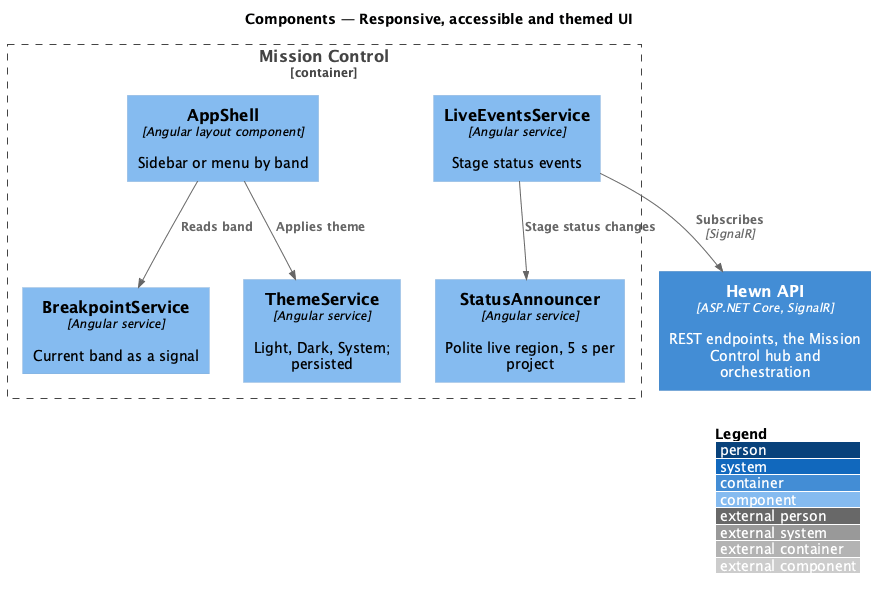
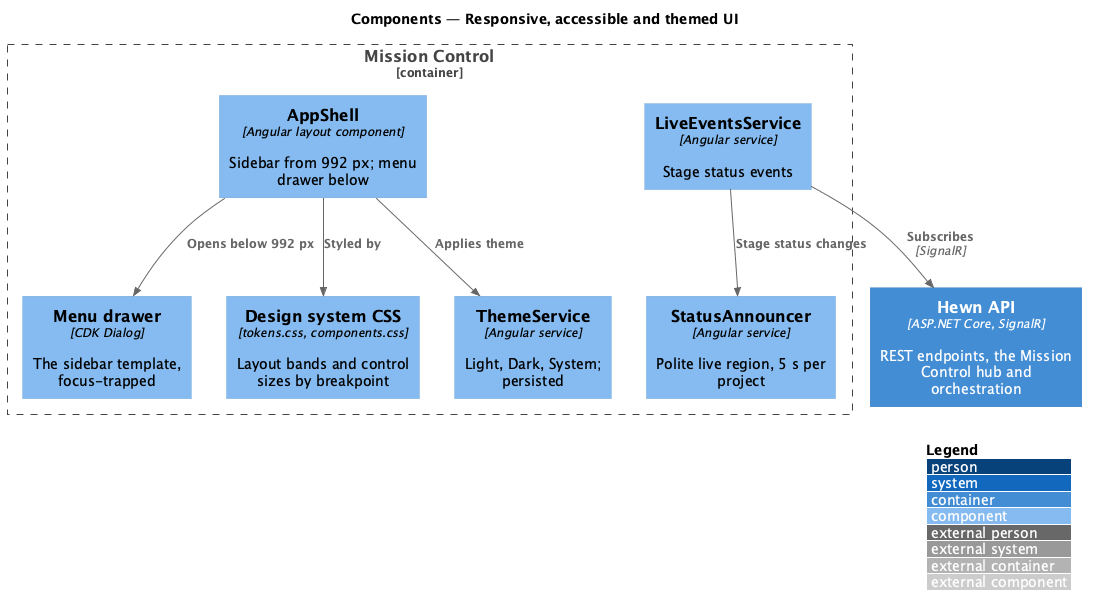
Settle touch target sizes for mobile layouts
L2-046 AC4 asked for 44 px targets at every width while the design
system draws 32 and 40 px controls from 992 px. AC4 now asks for 44 px
below 992 px and 24 px from 992 px (ADR 0034). The responsive design
drops BreakpointService: layout bands stay in CSS, and the shell opens
its sidebar template as a menu drawer below 992 px.

Traces to: L2-046

Claude-Session: https://claude.ai/code/session_01LjZiMqftK4BJirXGfFyqYe

diff --git a/docs/detailed-designs/mission-control/responsive-accessible-ui/README.md b/docs/detailed-designs/mission-control/responsive-accessible-ui/README.md
@@ -4,7 +4,7 @@
 
 Every Mission Control page shares one shell and one set of rules for layout, accessibility, theme and performance. This design describes that baseline rather than one screen.
 
-Layout follows three bands. Below 576 px (XS) content is one column, navigation collapses into a menu, and the pipeline is a vertical list. From 576 px (S) to 991 px (M) the project page shows the pipeline as a horizontal, scrollable stepper above the stage detail. From 992 px (L and XL) navigation is a fixed sidebar and the pipeline sits beside the stage detail. From 320 to 2560 px there is no horizontal page scroll, and touch targets are at least 44×44 px.
+Layout follows three bands. Below 576 px (XS) content is one column, navigation collapses into a menu, and the pipeline is a vertical list. From 576 px (S) to 991 px (M) the project page shows the pipeline as a horizontal, scrollable stepper above the stage detail. From 992 px (L and XL) navigation is a fixed sidebar and the pipeline sits beside the stage detail. From 320 to 2560 px there is no horizontal page scroll. Touch targets are at least 44×44 px below 992 px, where a finger is the likely pointer, and at least 24×24 px from 992 px.
 
 Every page in every state passes axe-core with no serious or critical violations, works by keyboard alone with a visible focus indicator and no traps, announces stage status changes through a polite live region at most once every 5 seconds per project, and disables animation when the user prefers reduced motion. With no saved choice the theme follows the operating system; a choice of Light, Dark or System is kept across reloads, and text contrast is at least 4.5:1 in both themes.
 
@@ -18,8 +18,8 @@ Terms used in this design:
 
 The slice is a set of shared Angular building blocks plus the tests that hold every page to them.
 
-- **`AppShell`** — layout component: fixed sidebar at 992 px and up, top bar with menu button below; the menu opens `MobileNavDrawer`, a focus-trapped dialog that releases focus on close.
-- **`BreakpointService`** — exposes the current band (XS, S–M, L–XL) as a signal from `matchMedia` queries on the token breakpoints.
+- **`AppShell`** — layout component. The sidebar's content is one template, shown in the fixed sidebar from 992 px. Below 992 px the top bar shows Open menu, the wordmark and the connection dot, and Open menu shows the same template in a menu drawer, a CDK Dialog labelled "Menu". Focus starts on Close menu, stays in the drawer, and returns to Open menu. The drawer closes on Escape, on Close menu, on a tap beside it, on navigating, and when the window widens to 992 px.
+- **Layout bands** — CSS media queries in the design system on the token breakpoints (36, 48, 62 and 75 rem) set the columns, the pipeline (a list, then a stepper, then a column beside the detail) and control sizes. The shell's one `matchMedia('(min-width: 62rem)')` closes the drawer; nothing else needs to know the band.
 - **`StatusAnnouncer`** — single polite live region. It queues stage status messages per project and emits at most one per project every 5 seconds.
 - **`ThemeService`** — reads `localStorage['hewn.theme']` (`light`, `dark` or `system`), applies `data-theme` on `<html>`, and follows `prefers-color-scheme` when the value is `system` or absent.
 - **`Design tokens`** — `tokens.css` with light and dark values; motion tokens resolve to `0ms` under `prefers-reduced-motion: reduce`.
@@ -32,7 +32,7 @@ The feature realizes the following level-2 (L2) requirements. Each L2 requiremen
 
 | L2 ID | Refines (L1) | Requirement |
 |-------|--------------|-------------|
-| `L2-046` | `L1-021` | **Responsive layout.**<br>1. Given XS (<576 px), when any page renders, then content is one column, navigation collapses into a menu, and the pipeline is a vertical list.<br>2. Given S (≥576 px) and M (≥768 px), when the project page renders, then the pipeline is a horizontal, scrollable stepper above the stage detail.<br>3. Given L (≥992 px) and XL (≥1200 px), when any page renders, then navigation is a fixed sidebar, and the project page shows the pipeline and the stage detail side by side.<br>4. Given any width from 320 to 2560 px, when any page renders, then there is no horizontal page scroll, and touch targets are at least 44×44 px. |
+| `L2-046` | `L1-021` | **Responsive layout.**<br>1. Given XS (<576 px), when any page renders, then content is one column, navigation collapses into a menu, and the pipeline is a vertical list.<br>2. Given S (≥576 px) and M (≥768 px), when the project page renders, then the pipeline is a horizontal, scrollable stepper above the stage detail.<br>3. Given L (≥992 px) and XL (≥1200 px), when any page renders, then navigation is a fixed sidebar, and the project page shows the pipeline and the stage detail side by side.<br>4. Given any width from 320 to 2560 px, when any page renders, then there is no horizontal page scroll, and touch targets are at least 44×44 px below 992 px and at least 24×24 px from 992 px. |
 | `L2-047` | `L1-021` | **Accessibility.**<br>1. Given every page in every state, when axe-core runs in the e2e suite, then there are no serious or critical violations.<br>2. Given a keyboard-only user, when they use any feature, then everything can be reached and used with a visible focus indicator and no keyboard traps.<br>3. Given stage status changes, when they occur, then they are announced through a polite live region, at most once every 5 seconds per project.<br>4. Given the user prefers reduced motion, when animations would play, then they are disabled. |
 | `L2-048` | `L1-021` | **Light and dark themes.**<br>1. Given no saved choice, when Mission Control loads, then it follows the operating system's colour scheme.<br>2. Given the user picks Light, Dark or System, when they reload, then their choice is kept, and text contrast meets 4.5:1 in both themes. |
 | `L2-045` | `L1-020` | **Performance targets.**<br>1. Given a mid-tier phone on a 4G profile (Lighthouse mobile), when Mission Control's Projects page loads, then Largest Contentful Paint is 2.5 s or less, and the initial JavaScript is 500 KB gzipped or less.<br>2. Given 50 projects and 20 connected workers, when the read APIs are load-tested, then p95 response time is 300 ms or less.<br>3. Given 200 events per second across all projects, when clients are subscribed, then the latency target in L2-031 AC1 still holds. |
@@ -59,7 +59,7 @@ Status announcements come from the same live events as the screen, throttled per
 
 ### Class structure
 
-`BreakpointService` and `ThemeService` expose their state as signals that `AppShell` reads; `StatusAnnouncer` keeps one pending message per project.
+`ThemeService` exposes the choice as a signal that `AppShell` reads, and `AppShell` opens its menu template in a CDK Dialog below 992 px; `StatusAnnouncer` keeps one pending message per project.
 
 ![Class diagram for the responsive, accessible and themed UI](diagrams/class-structure.png)
 
@@ -68,3 +68,17 @@ Status announcements come from the same live events as the screen, throttled per
 The theme follows the OS until chosen, then persists (L2-048 AC1, AC2). Status changes are announced politely at most once per 5 seconds per project (L2-047 AC3).
 
 ![Sequence diagram: apply theme and announce status](diagrams/sequence-theme-and-announce.png)
+
+## Decisions made while building mobile layouts (journey 33)
+
+- **Touch targets** ([ADR 0034](../../../adr/0034-touch-targets-are-44-px-below-992-px.md)). Below 992 px the
+  design system's small and medium control heights are 44 px, and tabs are at least 44 px wide; from 992 px they are
+  32 and 40 px, above WCAG 2.5.8's 24 px. L2-046 AC4 now says so. The mocks read the same tokens, so they changed with
+  the app and no mock was edited.
+- **No breakpoint service.** Every layout change is CSS on the token breakpoints, so the band never reaches
+  TypeScript. The drawer is the sidebar's own template, so the two can't drift apart.
+- **What was already there.** The pipeline's three layouts and every page's reflow came with the design system in
+  earlier journeys; the new acceptance tests (`use-mission-control-on-mobile.spec.ts`) hold them, and found nothing
+  wider than the viewport in 98 page and width pairs. What was missing below 992 px was any way to navigate.
+- **The drawer's container is the drawer.** The app's CDK dialog container usually covers the viewport; the menu's is
+  sized to the drawer (`drawer-pane`), so a tap beside the drawer reaches the backdrop and closes it.

diff --git a/docs/adr/0034-touch-targets-are-44-px-below-992-px.md b/docs/adr/0034-touch-targets-are-44-px-below-992-px.md
@@ -1,0 +1,34 @@
+# 0034. Touch targets are 44 px below 992 px
+
+- **Status:** Accepted
+- **Date:** 2026-11-11
+- **Requirements:** L2-046
+
+## Context
+
+L2-046 AC4 asked for 44×44 px touch targets at every width. The design system gives nav links, tabs and icon
+actions 44 px below lg, but buttons, inputs and selects were 32 px (small) and 40 px (medium) at every width, and the
+mocks are drawn with those sizes at desktop widths. Journey 33's sweep found 66 controls under 44 px at 375 and
+768 px.
+
+## Decision
+
+- Below 992 px, `--control-height-sm` and `--control-height-md` are 44 px (`2.75rem`), and a tab is at least 44 px
+  wide. From 992 px they return to 32 and 40 px.
+- L2-046 AC4 reads: touch targets are at least 44×44 px below 992 px and at least 24×24 px from 992 px (WCAG 2.2
+  2.5.8, Target Size (Minimum)).
+- An acceptance test measures every visible control on every page at 375, 768 and 1280 px.
+
+## Alternatives
+
+- **44 px at every width.** Every desktop row, table and toolbar grows by a quarter, the mocks no longer match the
+  product at 1280 px, and a mouse needs no such target.
+- **Drop the 44 px rule.** 24 px meets WCAG AA, but phones and tablets are where a finger is the pointer, and the
+  design system already promised 44 px there.
+- **Size by `pointer: coarse` instead of width.** A touch laptop at 1280 px would change layout under the mocks, and
+  the tests couldn't hold one width to one size.
+
+## Consequences
+
+- Phone and tablet layouts are a little taller; the mocks show the same, because they read the same tokens.
+- A new control that sets its own height must use the control height tokens, or the sweep fails below 992 px.

diff --git a/docs/specs/L2.md b/docs/specs/L2.md
@@ -487,7 +487,7 @@ All UI design is done in Magic Patterns (magicpatterns.com) through its MCP serv
 1. Given XS (<576 px), when any page renders, then content is one column, navigation collapses into a menu, and the pipeline is a vertical list.
 2. Given S (≥576 px) and M (≥768 px), when the project page renders, then the pipeline is a horizontal, scrollable stepper above the stage detail.
 3. Given L (≥992 px) and XL (≥1200 px), when any page renders, then navigation is a fixed sidebar, and the project page shows the pipeline and the stage detail side by side.
-4. Given any width from 320 to 2560 px, when any page renders, then there is no horizontal page scroll, and touch targets are at least 44×44 px.
+4. Given any width from 320 to 2560 px, when any page renders, then there is no horizontal page scroll, and touch targets are at least 44×44 px below 992 px and at least 24×24 px from 992 px.
 
 ---
 

diff --git a/docs/adr/README.md b/docs/adr/README.md
@@ -37,3 +37,4 @@ Read the ADRs that cover an area before changing it. New ADRs take the next numb
 | [0031](0031-archiving-is-a-flag-beside-the-projects-status.md) | Archiving is a flag beside the project's status | Accepted |
 | [0032](0032-a-project-is-deleted-in-one-save.md) | A project is deleted in one save | Accepted |
 | [0033](0033-audit-entries-are-append-only-in-the-database.md) | Audit entries are append-only in the database | Accepted |
+| [0034](0034-touch-targets-are-44-px-below-992-px.md) | Touch targets are 44 px below 992 px | Accepted |
